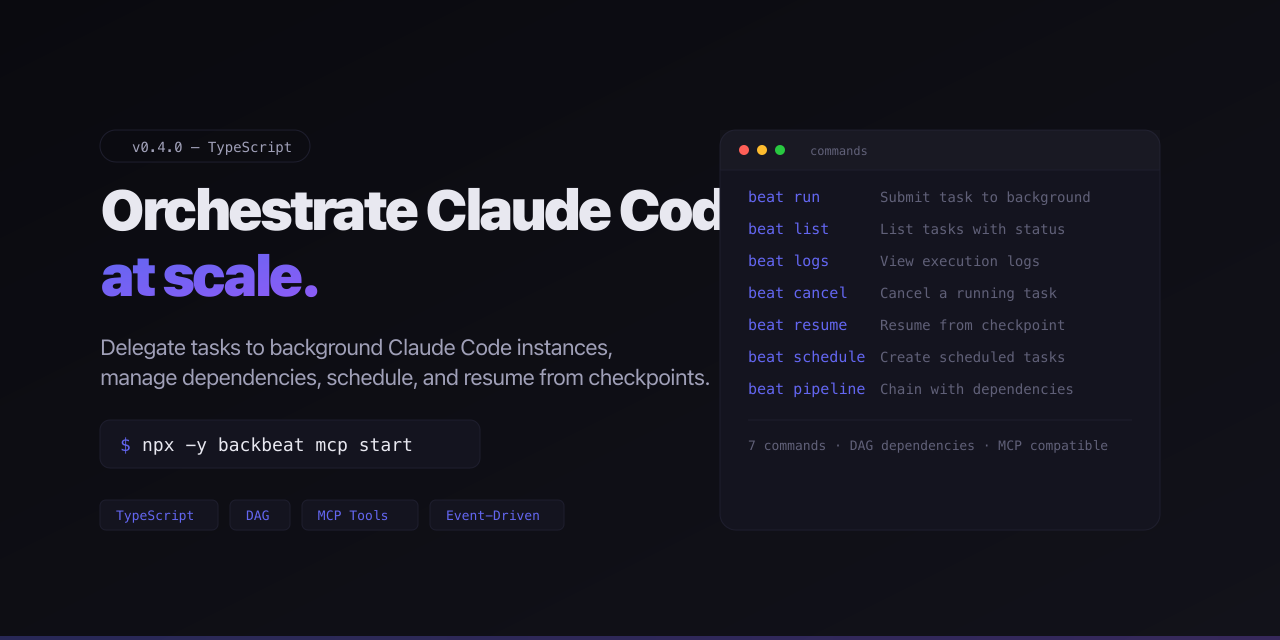
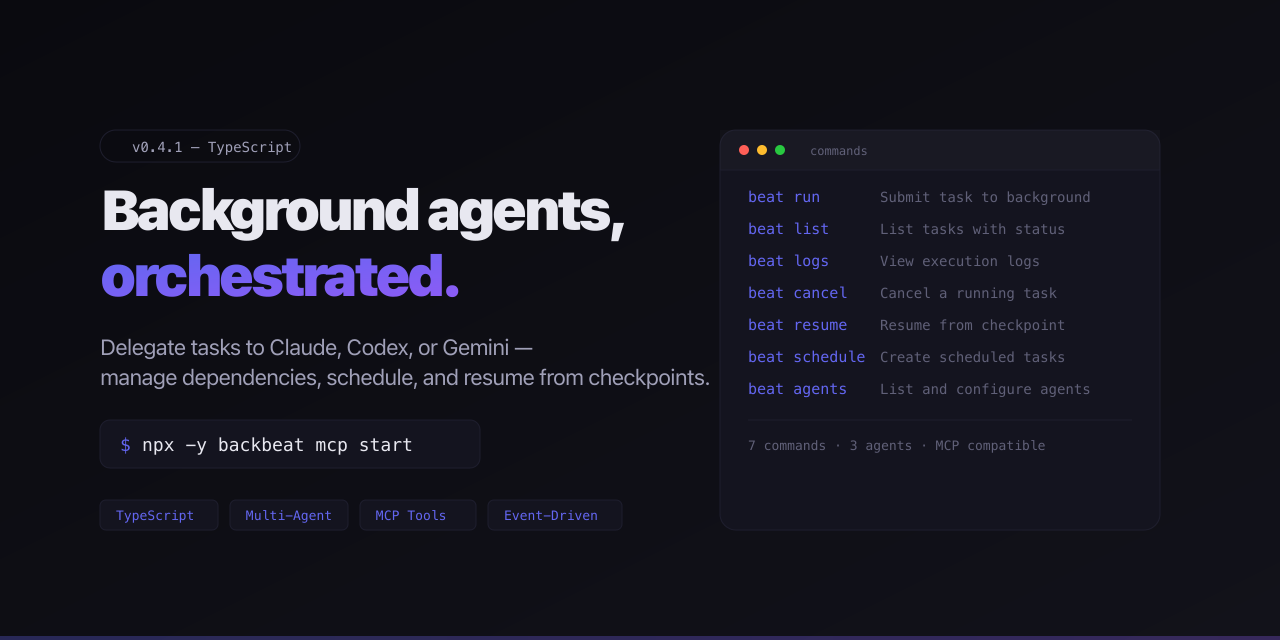
feat: update backbeat landing page for multi-agent support

diff --git a/sites/backbeat/src/data.ts b/sites/backbeat/src/data.ts
@@ -1,14 +1,14 @@
 import type { BentoItemProps } from '@cli-pages/shared';
-import { Send, Cpu, GitBranch, Clock, Database, RotateCcw, Zap, ArrowRightLeft } from 'lucide-react';
+import { Send, Cpu, GitBranch, Clock, Database, RotateCcw, Zap, Users } from 'lucide-react';
 
 export const meta = {
   name: 'backbeat',
-  version: 'v0.4.0',
+  version: 'v0.4.1',
   runtime: 'TypeScript',
   github: 'https://github.com/dean0x/backbeat',
 } as const;
 
-export const brandTagline = 'Task orchestration for Claude Code';
+export const brandTagline = 'Multi-agent task orchestration';
 
 export const projectLinks = [
   { label: 'GitHub', href: 'https://github.com/dean0x/backbeat' },
@@ -23,18 +23,18 @@ export const navLinks = [
 
 export const stats = [
   { value: 'DAG', label: 'Dependencies' },
-  { value: 'P1\u2013P4', label: 'Priority Levels' },
+  { value: '3', label: 'Agents' },
   { value: '0 config', label: 'Zero Setup' },
 ];
 
-export const ctaTitle = 'Ready to orchestrate at scale?';
+export const ctaTitle = 'Ready to orchestrate your agents?';
 
 export const heroData = {
   badge: 'Open Source · MIT License',
-  title: 'Orchestrate Claude Code,',
-  titleAccent: 'at scale.',
+  title: 'Background agents,',
+  titleAccent: 'orchestrated.',
   subtitle:
-    'Delegate tasks to background Claude Code instances, manage dependencies, schedule work, and resume from checkpoints — all from one session.',
+    'Delegate tasks to Claude, Codex, or Gemini in parallel — manage dependencies, schedule work, and resume from checkpoints.',
   actions: [
     { label: 'Get Started', href: '#commands', variant: 'primary' as const },
     { label: 'GitHub', href: 'https://github.com/dean0x/backbeat', variant: 'secondary' as const },
@@ -45,7 +45,7 @@ export const features: BentoItemProps[] = [
   {
     icon: Send,
     title: 'Task Delegation',
-    desc: 'Submit tasks to background Claude Code instances — fire-and-forget or foreground streaming',
+    desc: 'Submit tasks to background AI agent instances — fire-and-forget or foreground streaming',
     size: 'md',
   },
   {
@@ -85,9 +85,9 @@ export const features: BentoItemProps[] = [
     size: 'sm',
   },
   {
-    icon: ArrowRightLeft,
-    title: 'Session Continuation',
-    desc: 'Dependent tasks receive checkpoint context — git state, output summary flow downstream',
+    icon: Users,
+    title: 'Multi-Agent Support',
+    desc: 'Choose Claude, Codex, or Gemini per task — or set a default agent globally',
     size: 'md',
   },
 ];
@@ -114,7 +114,7 @@ export const mcpToolRows = [
 
 export const terminalWalkthrough = [
   {
-    cmd: 'beat run "Build the authentication module" --priority P1',
+    cmd: 'beat run "Build the authentication module" --agent claude --priority P1',
     output: [
       '┌  BackBeat - Task Created',
       '│',
@@ -148,13 +148,16 @@ export const commandColumns = [
 ];
 
 export const commandRows = [
-  { cmd: 'beat run', desc: 'Submit a task to a background instance', example: 'beat run "Add auth module" --priority P1' },
+  { cmd: 'beat run', desc: 'Submit a task to a background instance', example: 'beat run "Add auth" --agent codex' },
   { cmd: 'beat list', desc: 'List tasks with status and priority', example: 'beat list --status running' },
   { cmd: 'beat logs', desc: 'View task output and execution logs', example: 'beat logs task_a1b2 --tail 50' },
   { cmd: 'beat cancel', desc: 'Cancel a running task', example: 'beat cancel task_a1b2' },
   { cmd: 'beat resume', desc: 'Resume a failed task from checkpoint', example: 'beat resume task_a1b2' },
+  { cmd: 'beat retry', desc: 'Retry a failed or completed task', example: 'beat retry task_a1b2' },
+  { cmd: 'beat status', desc: 'Check task or global status', example: 'beat status task_a1b2' },
   { cmd: 'beat schedule', desc: 'Create cron or one-time scheduled tasks', example: 'beat schedule create --cron "0 9 * * 1"' },
-  { cmd: 'beat pipeline', desc: 'Chain tasks with dependency ordering', example: 'beat pipeline "Build API" "Write tests"' },
+  { cmd: 'beat agents', desc: 'List and configure AI agents', example: 'beat agents check' },
+  { cmd: 'beat config', desc: 'Show or set configuration', example: 'beat config show' },
 ];
 
 export const installMethods = [
